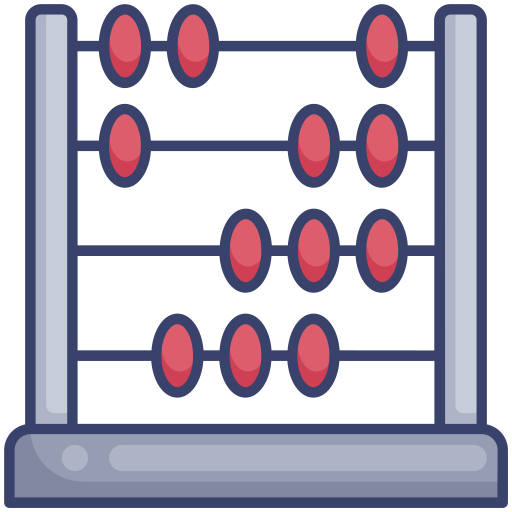
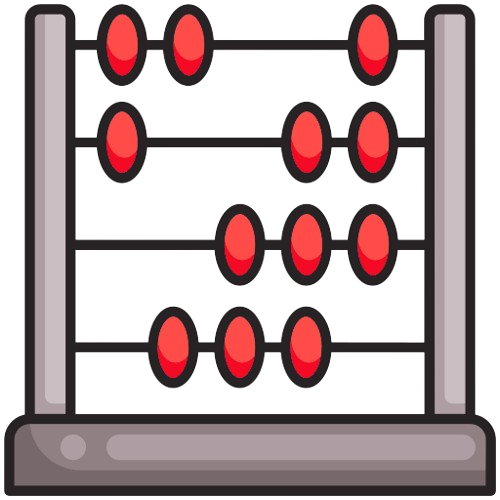
Fixed a few issues in dark mode

diff --git a/documentation/source/_static/css/frontpage.css b/documentation/source/_static/css/frontpage.css
@@ -38,6 +38,10 @@ h1:not(.sd-d-none) {
     letter-spacing: -0.02em;
 }
 
+html[data-theme="dark"] h1:not(.sd-d-none) {
+    color: #7b8fd4;
+}
+
 h3:not(#hero h3) {
     font-weight: bold;
     text-align: center;
@@ -292,12 +296,20 @@ h3:not(#hero h3) {
     line-height: 1.6;
 }
 
+html[data-theme="dark"] .section-subtitle {
+    color: #7b8fd4;
+}
+
 /* ===== FEATURE CARDS ===== */
 #key-features .sd-card {
     border-radius: 16px !important;
     transition: all 0.35s cubic-bezier(0.4, 0, 0.2, 1);
     border: 1px solid rgba(1, 89, 153, 0.05) !important;
     background: #ffffff !important;
+}
+
+html[data-theme="dark"] #key-features .sd-card {
+    background: var(--pst-color-on-background) !important;
 }
 
 #key-features .sd-card:hover {
@@ -319,6 +331,10 @@ h3:not(#hero h3) {
     background: linear-gradient(180deg, #f8fafc 0%, #f0f4f8 100%);
     border-radius: 20px;
     padding: 3rem 2rem !important;
+}
+
+html[data-theme="dark"] #dive-into-qrisp-code {
+    background: linear-gradient(180deg, #1a2236 0%, #1e2840 100%);
 }
 
 /* ===== PARTNER LOGOS ===== */
@@ -422,7 +438,7 @@ h3:not(#hero h3) {
     }
 
     #hero-left .scaled-image,
-    #hero-left img[src$="logo_white.png"] {
+    #hero-left img[src$="qrisp_logo_white.png"] {
         margin-left: auto !important;
         margin-right: auto !important;
     }

diff --git a/documentation/source/_static/css/slider.css b/documentation/source/_static/css/slider.css
@@ -61,6 +61,14 @@
   background: linear-gradient(to left, var(--theme-bg, white) 0%, rgba(255, 255, 255, 0) 100%);
 }
 
+html[data-theme="dark"] .logo-slider::before {
+  background: linear-gradient(to right, #14181e 0%, rgba(20, 24, 30, 0) 100%);
+}
+
+html[data-theme="dark"] .logo-slider::after {
+  background: linear-gradient(to left, #14181e 0%, rgba(20, 24, 30, 0) 100%);
+}
+
 /* --- 4. The Moving Track --- */
 .logo-track {
   display: flex;

diff --git a/documentation/source/_static/css/custom09.css b/documentation/source/_static/css/custom09.css
@@ -22,6 +22,11 @@ html[data-theme="dark"] {
   --pst-color-plot-background: rgb(218, 219, 220);
 }
 
+html[data-theme="dark"] .bd-content img:not(.only-dark, .only-light) {
+  background-color: transparent !important;
+  border-radius: 0 !important;
+}
+
 /* PyDataSphinx link underlining overide */
 .bd-header .navbar-nav li a.nav-link:hover {
   text-decoration: none !important;

diff --git a/documentation/source/index.rst b/documentation/source/index.rst
@@ -16,10 +16,10 @@
         <canvas id="hero-graph-canvas"></canvas>
         <div class="hero-orb-secondary"></div>
         <div id="hero-left">
-            <img alt="./_static/eclipse_font.png" class="align-bottom-left scaled-image" src="./_static/eclipse_font.png" width="126">
-            <img alt="./_static/logo_white.png" src="./_static/logo_white.png" width="260" style="margin: 0.4rem 0; display: block;">
-            <h3 style="font-weight: 600; margin-top: 0;">The next generation of quantum <br> algorithm development</h3>
-            <p style="margin-right: 30pt">Qrisp is a high-level language for building and compiling quantum algorithms. Its structured programming model supports scalable, maintainable development. With seamless JAX integration, Qrisp enables hybrid real-time algorithm design and analysis.</p>
+            <img alt="./_static/eclipse_font.png" class="align-bottom-left scaled-image dark-light" src="./_static/eclipse_font.png" width="126">
+            <img alt="./_static/qrisp_logo_white.png" class="dark-light" src="./_static/qrisp_logo_white.png" width="260" style="margin: 0.4rem 0; display: block;">
+            <h3 style="font-weight: 600; margin-top: 0; color: #ffffff;">The next generation of quantum <br> algorithm development</h3>
+            <p style="margin-right: 30pt; color: #ffffff;">Qrisp is a high-level language for building and compiling quantum algorithms. Its structured programming model supports scalable, maintainable development. With seamless JAX integration, Qrisp enables hybrid real-time algorithm design and analysis.</p>
 
             <div class="homepage-button-container">
                 <div class="homepage-button-container-row">
@@ -302,14 +302,16 @@ Qrisp enables developers to express quantum algorithms in substantially fewer li
    :widths: 25 25
    :header-rows: 1
 
-   * - .. image:: ./qiskit_logo.png
+   * - .. image:: ../../logo/qiskit_logo.png
          :width: 100
          :alt: Qrisp Logo
          :align: center
-     - .. image:: ./qrisp_logo.png
+         :class: dark-light
+     - .. image:: ../../logo/qrisp_logo_with_contour.png
          :width: 100
          :alt: Qiskit Logo
          :align: center
+         :class: dark-light
    * - ::
          
 		from qiskit import (QuantumCircuit, QuantumRegister,